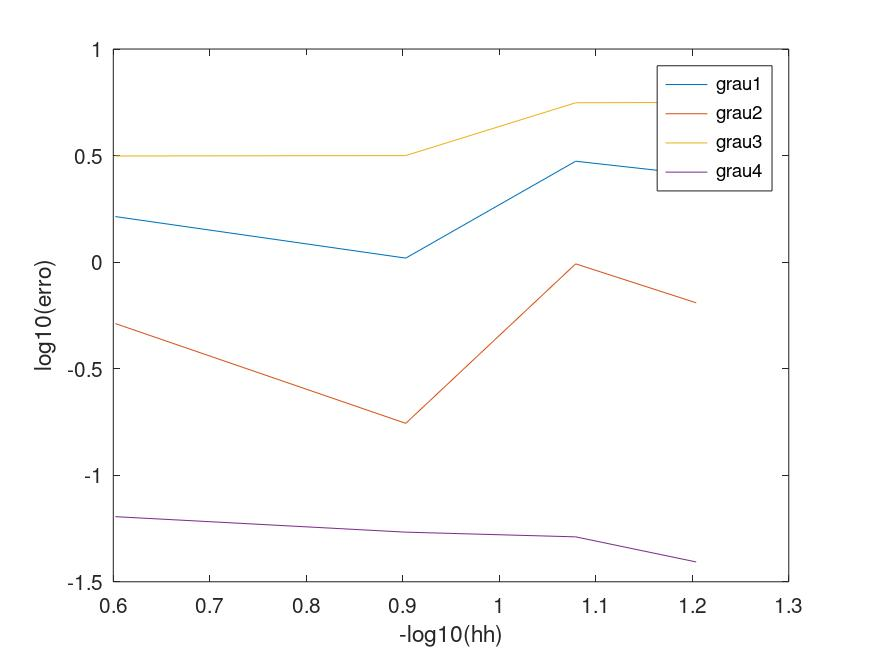
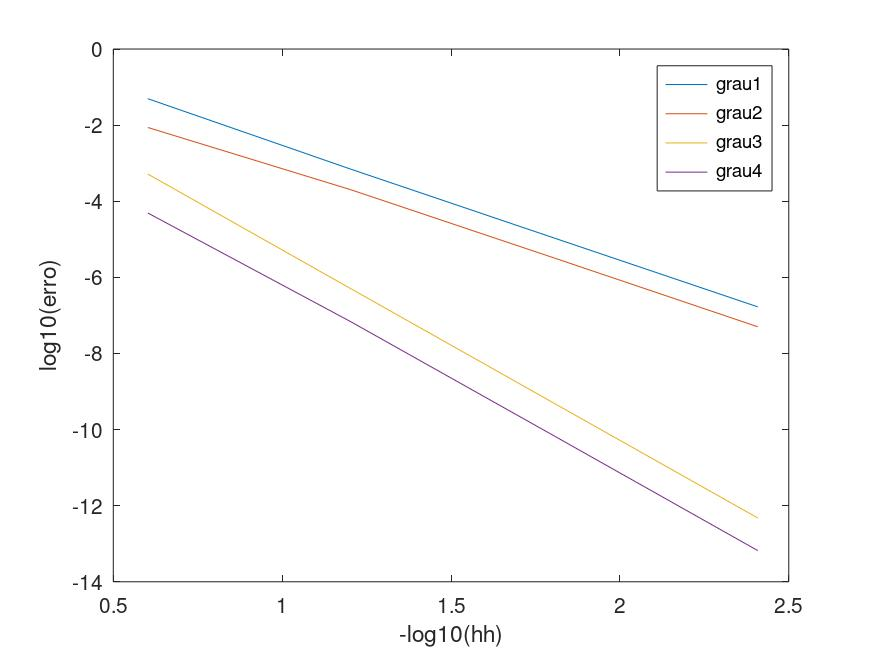
conserta calculo erro pra norma L2 Trab2Q3

diff --git a/Trab2/Q3/DifusaoReacao.m b/Trab2/Q3/DifusaoReacao.m
@@ -95,29 +95,30 @@ for grau = 1:4
     u = zeros(np);
     u = KM\F;
 
-    %cálculo do erro
-    erdul2 = 0;
+    %cálculo do erro L2
+    erul2 = 0;
     for n = 1:nel
-      erdu = 0;
+      eru = 0;
       for l = 1:nint
-        duh = 0;
+        uh = 0;
         xx = 0;
         for i = 1:nen
-          duh = duh + shg(2,i,l)*2/h*u(k*(n-1)+i);
+          uh = uh + shg(1,i,l)*u(k*(n-1)+i);
           xx = xx + shg(1,i,l)*xl(k*(n-1)+i);
-         endfor
-         erdu = erdu + ((dfuncaoExata(xx,E) - duh)**2) * w(l) * h/2;
         endfor
-        erdul2 = erdul2 + erdu;
+        eru = eru + ((funcao(xx) - uh)**2) * w(l) * h/2;
       endfor
-      erdul2 = sqrt(erdul2);
-      erro(cont) = erdul2;
-      hh(cont) = h;
+      erul2 = erul2 + eru;
+    endfor
+    erul2 = sqrt(erul2);
+    erro(cont) = erul2;
+    hh(cont) = h;
       
-      %salva a resolucao
-      nome = sprintf("log/PesosEPontosIntegrecao%dGrau%d.txt", cont, grau);
-      save(nome, 'xl', 'h', 'u', 'x', 'exata');
-      
+    %salva a resolucao
+    nome = sprintf("log/PesosEPontosIntegrecao%dGrau%d.txt", cont, grau);
+    save(nome, 'xl', 'h', 'u', 'x', 'exata');
+    
+  
   endfor 
   
   %verifica estabilidade
